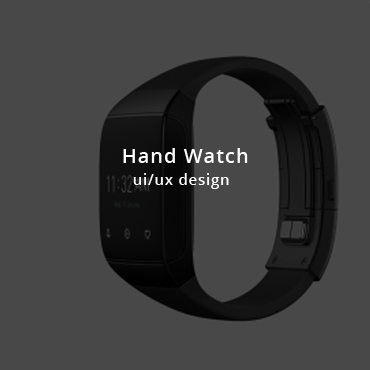
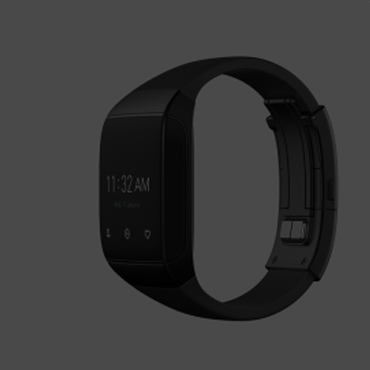
Portfolio is ready

Changed region(s): [[0.327, 0.3865, 0.6838, 0.4459], [0.3568, 0.4757, 0.6243, 0.5054]]

diff --git a/index.html b/index.html
@@ -170,49 +170,75 @@
     </section>
     <section class="portfolio">
         <div class="container">
-            <div class="row">
-                <div class="row justify-content-center">
-                    <div class="col-xl-6">
-                        <h2 class="about__title">Latest Works</h2>
-                        <p class="about__text">Lorem ipsum dolor sit amet, consectetur adipisicing elit, sed do eiusmod
-                            tempor incididunt ut labore et dolore magna aliqua. Ut enim ad minim veniam,</p>
-
-                    </div>
-                </div>
-            </div>
-            <div class="row">
-                <div class="row justify-content-center">
-                    <div class="col-xl-8">
-                        <button val="on" class="button" data-f="all">All</button>
-                        <button val="off" class="button" data-f="wd">Web design</button>
-                        <button val="off" class="button" data-f="ud">Ui/Ux design</button>
-                        <button val="off" class="button" data-f="moc">Mockups</button>
-                    </div>
+            <div class="row justify-content-center">
+                <div class="col-xl-8">
+                    <h2 class="about__title">Latest Works</h2>
+                    <p class="about__text">Lorem ipsum dolor sit amet, consectetur adipisicing elit, sed do
+                        eiusmod
+                        tempor incididunt ut labore et dolore magna aliqua. Ut enim ad minim veniam,</p>
+                    <button val="on" class="button" filter="all">All</button>
+                    <button val="off" class="button" filter="wd">Web design</button>
+                    <button val="off" class="button" filter="ud">Ui/Ux design</button>
+                    <button val="off" class="button" filter="moc">Mockups</button>
                 </div>
             </div>
             <div class="row filter">
-                <div data-f="wd" class="col-xl-4"><img src="img/work1.png" alt=""></div>
-                <div data-f="moc" class="col-xl-4"><img src="img/work2.png" alt=""></div>
-                <div data-f="wd" class="col-xl-4"><img src="img/work3.png" alt=""></div>
-                <div data-f="moc" class="col-xl-4"><img src="img/work4.png" alt=""></div>
-                <div data-f="ud" class="col-xl-4"><img src="img/work5.png" alt=""></div>
-                <div data-f="ud" class="col-xl-4"><img src="img/work6.png" alt=""></div>
+                <div filter="wd" class="col-xl-4">
+                    <img src="img/work1.png" alt="">
+                    <div class="text">
+                        <h5>Hand Watch</h5>
+                        <p>Web design</p>
+                    </div>
+                </div>
+                <div filter="moc" class="col-xl-4">
+                    <img src="img/work2.png" alt="">
+                    <div class="text">
+                        <h5>One Day Pass</h5>
+                        <p>Mockups</p>
+                    </div>
+                </div>
+                <div filter="wd" class="col-xl-4">
+                    <img src="img/work3.png" alt="">
+                    <div class="text">
+                        <h5>Model T-shirt</h5>
+                        <p>Web design</p>
+                    </div>
+                </div>
+                <div filter="moc" class="col-xl-4">
+                    <img src="img/work4.png" alt="">
+                    <div class="text">
+                        <h5>Flask</h5>
+                        <p>Mockups</p>
+                    </div>
+                </div>
+                <div filter="ud" class="col-xl-4">
+                    <img src="img/work5.png" alt="">
+                    <div class="text">
+                        <h5>Eplemost</h5>
+                        <p>Ui/Ux Design</p>
+                    </div>
+                </div>
+                <div filter="ud" class="col-xl-4">
+                    <img src="img/work6.png" alt="">
+                    <div class="text">
+                        <h5>The kitchens</h5>
+                        <p>Ui/Ux Design</p>
+                    </div>
+                </div>
             </div>
-            <div class="row">
-                <div class="col-xl-12">
-                    <button class="button">View all</button>
-                </div>   
-            </div >
+        </div>
+        <div class="row">
+            <div class="col-xl-12">
+                <button val="on" class="button" filter="all">View all</button>
+            </div>
         </div>
     </section>
-    <script src="https://code.jquery.com/jquery-3.5.1.min.js" 
-        integrity="sha256-9/aliU8dGd2tb6OSsuzixeV4y/faTqgFtohetphbbj0=" 
-        crossorigin="anonymous">
-    </script>
+    <script src="https://code.jquery.com/jquery-3.5.1.min.js"
+        integrity="sha256-9/aliU8dGd2tb6OSsuzixeV4y/faTqgFtohetphbbj0=" crossorigin="anonymous">
+        </script>
     <script src="https://cdn.jsdelivr.net/npm/bootstrap@5.0.0-beta1/dist/js/bootstrap.bundle.min.js"
-        integrity="sha384-ygbV9kiqUc6oa4msXn9868pTtWMgiQaeYH7/t7LECLbyPA2x65Kgf80OJFdroafW"
-        crossorigin="anonymous">
-    </script>
+        integrity="sha384-ygbV9kiqUc6oa4msXn9868pTtWMgiQaeYH7/t7LECLbyPA2x65Kgf80OJFdroafW" crossorigin="anonymous">
+        </script>
     <script src="js/main.js"></script>
 
 </body>

diff --git a/js/main.js b/js/main.js
@@ -1,33 +1,56 @@
-$(document).ready(function () {
-    $('.button[data-f="wd"]').click(function () {
-        if ($(this).attr('val') == 'off') {
-            $('.button[data-f]').attr('val','off')
-            $(this).attr('val', 'on');
+// $(document).ready(function () {
+//     $('.button[filter="wd"]').click(function () {
+//         if ($(this).attr('val') == 'off') {
+//             $('.button[filter]').attr('val','off')
+//             $(this).attr('val', 'on');
+//             $('.filter > div').hide(300);
+//             $('.filter > div[filter="wd"]').show(300);
+//         }
+//     });
+//     $('.button[filter="ud"]').click(function () {
+//         if ($(this).attr('val') == 'off') {
+//             $('.button[filter]').attr('val','off')
+//             $(this).attr('val', 'on');
+//             $('.filter > div').hide(300);
+//             $('.filter > div[filter="ud"]').show(300);
+//         }
+//     });
+//     $('.button[filter="moc"]').click(function () {
+//         if ($(this).attr('val') == 'off') {
+//             $('.button[filter]').attr('val','off')
+//             $(this).attr('val', 'on');
+//             $('.filter > div').hide(300);
+//             $('.filter > div[filter="moc"]').show(300);
+//         }
+//     });
+//     $('.button[filter="all"]').click(function () {
+//         if ($(this).attr('val') == 'off') {
+//             $('.button[filter]').attr('val','off')
+//             $(this).attr('val', 'on');
+//             $('.filter > div').show(300);
+//         }
+//     });
+// });
+
+$(document).ready(function() {
+    $('.button[filter]').click(function(){
+        if($(this).attr('filter')=='all') {
+            if($(this).attr('val')=='off') {
+                $('.button[filter]').attr('val','off');
+                $(this).attr('val','on');
+                $('.button[filter]').removeClass('focused');
+                $(this).addClass('focused');
+                $('.filter > div').show(300);
+            }
+        } else
+        if($(this).attr('val')=='off') {
+            $('.button[filter]').attr('val','off');
+            $(this).attr('val','on');
+            $('.button[filter]').removeClass('focused');
+            $(this).addClass('focused');
             $('.filter > div').hide(300);
-            $('.filter > div[data-f="wd"]').show(300);
+            var filter = $(this).attr('filter');
+            $('.filter > div[filter='+filter+']').show(300);
         }
-    });
-    $('.button[data-f="ud"]').click(function () {
-        if ($(this).attr('val') == 'off') {
-            $('.button[data-f]').attr('val','off')
-            $(this).attr('val', 'on');
-            $('.filter > div').hide(300);
-            $('.filter > div[data-f="ud"]').show(300);
-        }
-    });
-    $('.button[data-f="moc"]').click(function () {
-        if ($(this).attr('val') == 'off') {
-            $('.button[data-f]').attr('val','off')
-            $(this).attr('val', 'on');
-            $('.filter > div').hide(300);
-            $('.filter > div[data-f="moc"]').show(300);
-        }
-    });
-    $('.button[data-f="all"]').click(function () {
-        if ($(this).attr('val') == 'off') {
-            $('.button[data-f]').attr('val','off')
-            $(this).attr('val', 'on');
-            $('.filter > div').show(300);
-        }
-    });
-});
+    })
+})

diff --git a/css/style.css b/css/style.css
@@ -128,14 +128,34 @@ ul, li {
     padding-top: 120px;
     padding-bottom: 135px;
 }
-.portfolio button:hover {
+.portfolio button:hover,
+.focused {
     color: black;
     border: 2px solid #00897b;
     background: transparent; 
 }
-.portfolio img {
+.portfolio img {   
     margin-bottom: 30px;
 }
 .filter {
     padding: 120px 0;
+}
+div[filter] {
+    position: relative;
+    text-align: center;
+    color: white;
+}
+div[filter]:hover img {
+    filter: brightness(50%);
+    transition: 0.3s;
+}
+.text {
+    position: absolute;
+    top: 50%;
+    left: 50%;
+    transform: translate(-50%, -50%);
+    display: none;
+}
+div[filter]:hover  .text {
+    display: block;
 }
